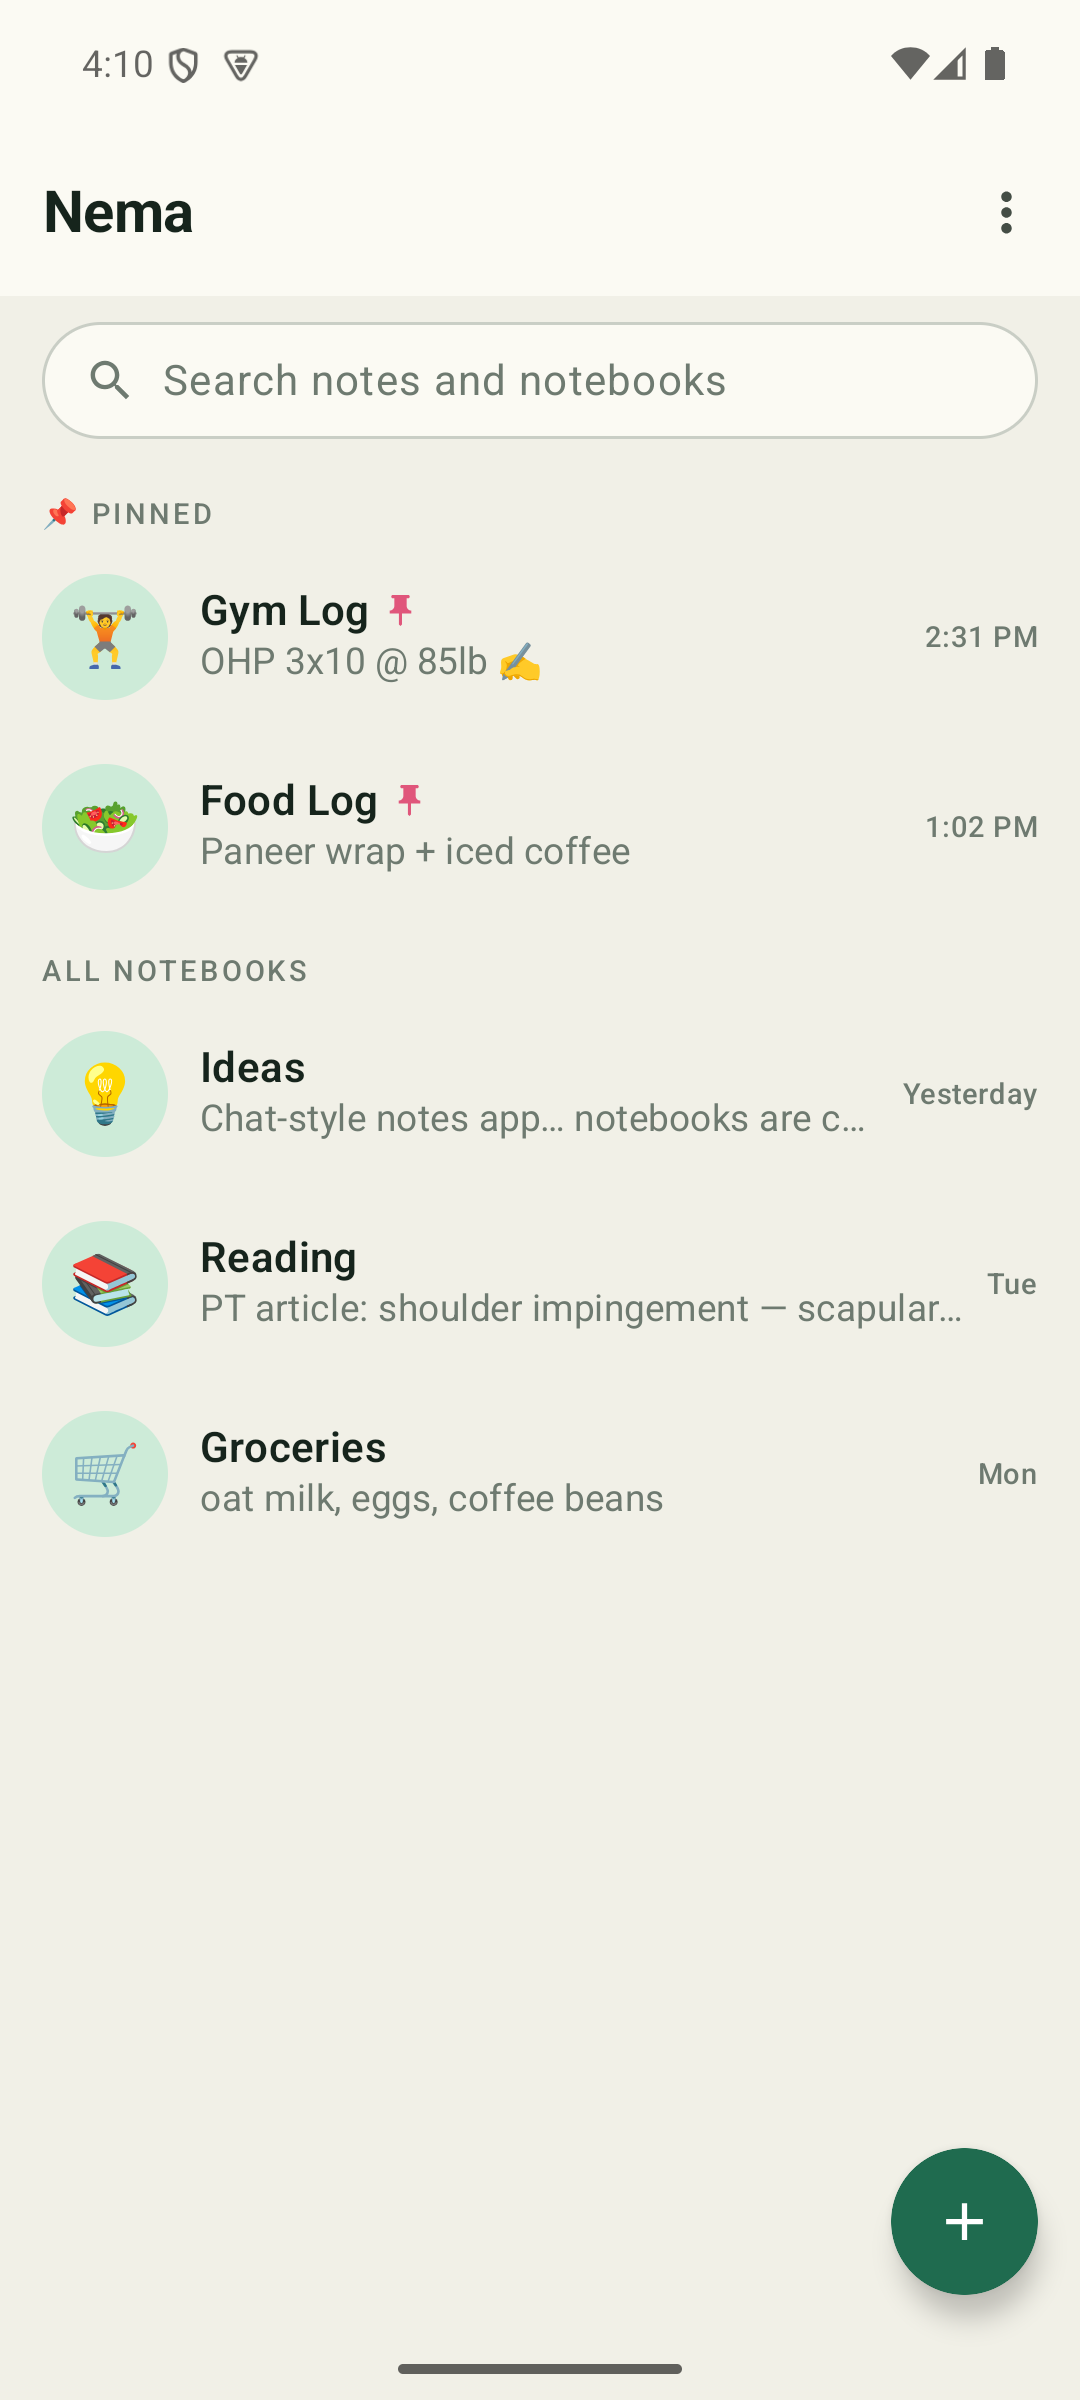
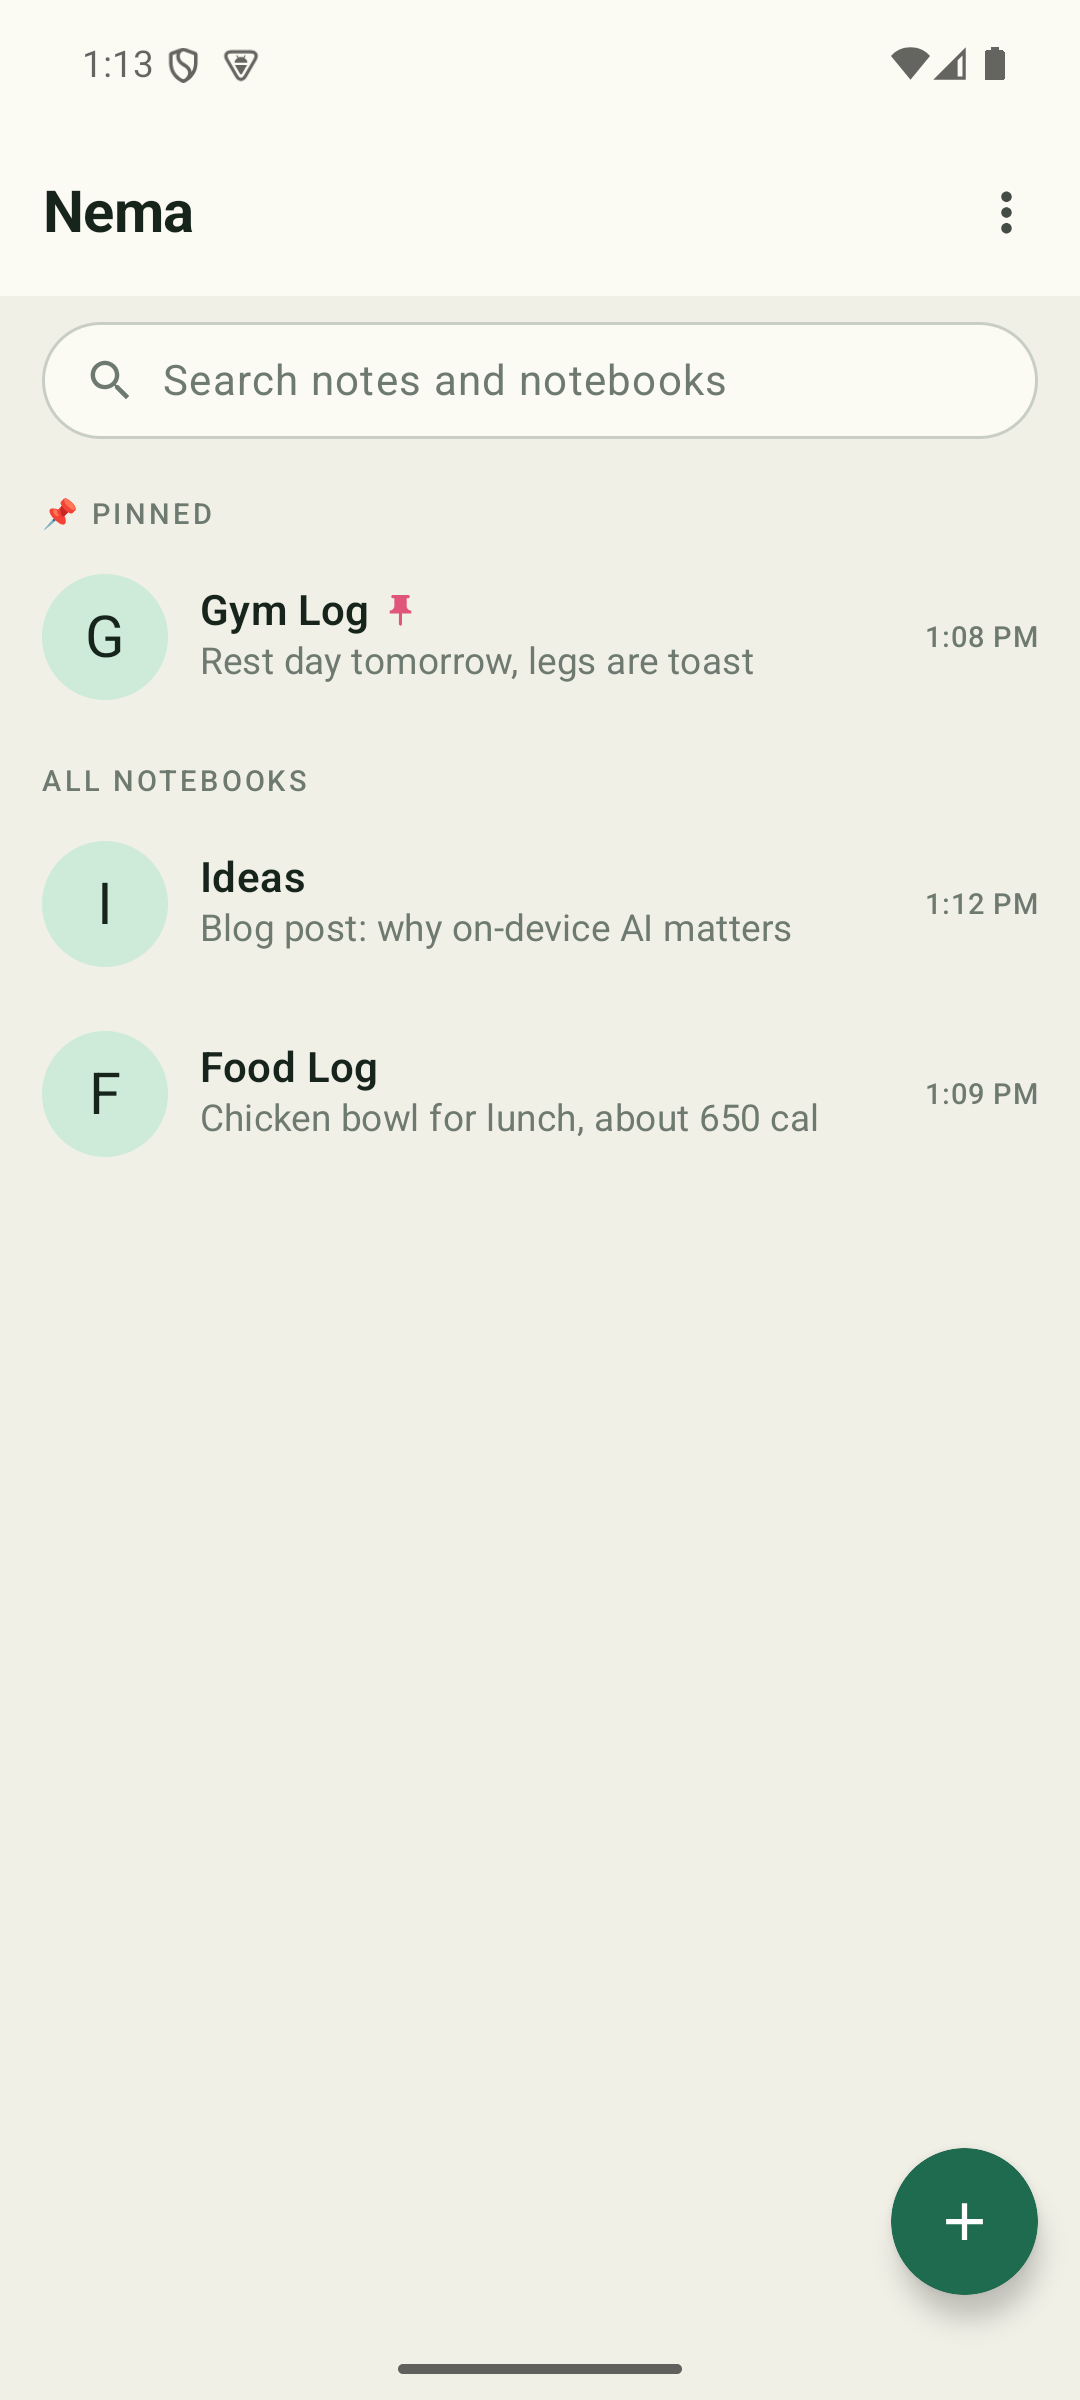
docs: v2.1.0 — optional hosted-model backend; refresh screenshots

diff --git a/README.md b/README.md
@@ -12,18 +12,21 @@
 you already use every day: **notebooks are chats, notes are messages, and
 capturing a thought is as fast as sending a text.**
 
-> **Latest release: [Nema v2.0.0](../../releases/latest)** · Android 8.0+ · on-device AI, private by design
+> **Latest release: [Nema v2.1.0](../../releases/latest)** · Android 8.0+ · on-device AI, private by design
 
 - 💬 **Texting-speed capture** — open, type, send. Your note is saved instantly.
 - 🗂 **Organize by topic** — a notebook per subject (Gym Log, Food Log, Ideas),
   with pinning so this week's priorities float to the top.
 - 🔍 **Find anything** — fast global and in-notebook search with date ranges.
 - ✨ **On-device AI** — redraft, ask, summarize, extract, and run Skills — all
-  running **locally on your phone**. No cloud, no account.
-- 🔒 **Private by design** — the AI runs on-device. The only network use is the
-  optional model download, which is logged in the Privacy ledger and can be
-  turned off entirely with **Sealed Mode**. Without a model, Nema is a fully
-  offline notebook.
+  running **locally on your phone** by default. No cloud, no account.
+- ☁ **Bring your own model (optional)** — power the same AI features with your
+  own OpenAI, Anthropic, or Foundry/Azure API key instead. Off by default; your
+  key stays on your device.
+- 🔒 **Private by design** — the on-device model needs no network at all. Any
+  network use (the optional model download, or a hosted model you opt into) is
+  logged in the Privacy ledger and can be turned off entirely with **Sealed
+  Mode**. Without a model, Nema is a fully offline notebook.
 
 > Nema is an Android app. The intelligence runs on your device.
 
@@ -33,9 +36,10 @@ capturing a thought is as fast as sending a text.**
 
 <table>
   <tr>
-    <td align="center"><img src="docs/screenshots/home.png" alt="Notebook list with pinned notebooks" width="240"><br><sub>Notebooks — pinned & all</sub></td>
-    <td align="center"><img src="docs/screenshots/notebook.png" alt="Chat-style notebook with notes" width="240"><br><sub>Capture like texting</sub></td>
-    <td align="center"><img src="docs/screenshots/search.png" alt="Search results with highlighted matches" width="240"><br><sub>Search everything</sub></td>
+    <td align="center"><img src="docs/screenshots/home.png" alt="Notebook list with pinned notebooks" width="220"><br><sub>Notebooks — pinned & all</sub></td>
+    <td align="center"><img src="docs/screenshots/notebook.png" alt="Chat-style notebook with notes" width="220"><br><sub>Capture like texting</sub></td>
+    <td align="center"><img src="docs/screenshots/search.png" alt="Search results with highlighted matches" width="220"><br><sub>Search everything</sub></td>
+    <td align="center"><img src="docs/screenshots/hosted.png" alt="Settings screen with the optional hosted-model section" width="220"><br><sub>Bring your own model <em>(new)</em></sub></td>
   </tr>
 </table>
 
@@ -44,7 +48,7 @@ capturing a thought is as fast as sending a text.**
 ## 📥 Download & install
 
 1. Go to the [**latest release**](../../releases/latest).
-2. Download `nema-v2.0.0-release.apk`.
+2. Download `nema-v2.1.0-release.apk`.
 3. (Recommended) Verify the download — see **Verifying your download** below.
 4. On your Android device, open the APK and allow installation from this source
    if prompted.
@@ -59,8 +63,8 @@ integrity:
 
 ```bash
 # Compare the printed hash against the contents of the .sha256 file
-sha256sum nema-v2.0.0-release.apk         # Linux / macOS
-Get-FileHash nema-v2.0.0-release.apk      # Windows PowerShell (SHA256 by default)
+sha256sum nema-v2.1.0-release.apk         # Linux / macOS
+Get-FileHash nema-v2.1.0-release.apk      # Windows PowerShell (SHA256 by default)
 ```
 
 The hashes must match exactly. If they don't, do not install the file.
@@ -81,36 +85,49 @@ The hashes must match exactly. If they don't, do not install the file.
   AI builds a live table with rollups, tap-to-source, editing, and CSV export.
 - **Skills** — reusable prompts you attach to notebooks and run on demand, on a
   schedule, or when you add a note. Permissions default to read-only.
-- **Privacy ledger & Sealed Mode** — the only network use (optional model
-  download) is logged; Sealed Mode blocks it entirely.
+- **Bring your own hosted model (optional)** — flip a switch in Settings to power
+  every AI feature with your own OpenAI, Anthropic, or Foundry/Azure API instead
+  of the on-device model. Off by default; on-device stays the default.
+- **Privacy ledger & Sealed Mode** — every network egress (the optional model
+  download, or a hosted model you opt into) is logged; Sealed Mode blocks it all.
 
 ---
 
-## 🆕 What's new in v2.0.0
+## 🆕 What's new in v2.1.0
 
-Nema's first **on-device AI** release. Notebooks get intelligent while staying
-private: AI redrafting in the composer, `/ask` and `/compact` grounded in your
-own notes, user-programmable **Extraction rules** that turn notes into structured
-tables, and **Skills** — reusable prompts you can attach to notebooks and trigger
-on demand, on a schedule, or on new notes. Everything runs on your device using a
-local model; the app remains a fully-functional offline notebook if you never
-download one. See the [`CHANGELOG.md`](CHANGELOG.md) for the full history.
+Nema now lets you **bring your own hosted model**. If you'd rather power the AI
+features with a cloud API than the on-device model, open **Settings → Hosted
+model**, flip the switch, and add your **OpenAI**, **Anthropic**, or
+**Foundry/Azure** endpoint, key, and model name. Once enabled, every AI feature —
+redraft, `/ask`, `/compact`, extraction, and Skills — routes through your hosted
+model. It's **off by default**, on-device remains the default, your key stays on
+your device, and every hosted call is recorded in the Privacy Receipt and
+blockable with Sealed Mode. See the [`CHANGELOG.md`](CHANGELOG.md) for the full
+history.
 
 ---
 
 ## 🔐 Privacy
 
-Nema's AI runs **on your device**. The one and only network use is the optional,
-on-demand **model download** — and it is:
+Nema's AI runs **on your device** by default, and that path makes **zero** network
+calls. Nema only touches the network in two cases, both under your control:
 
-- **Ledgered** — every download is recorded (host, bytes, purpose; never your
-  note content) in the in-app Privacy Receipt.
-- **Blockable** — turn on **Sealed Mode** to block all egress; the app keeps
-  working as an offline notebook.
-- **Optional** — with no model downloaded, Nema makes no network calls and is a
-  fully offline v1-style notebook.
+- **The optional model download** — an on-demand download to enable the on-device
+  AI features.
+- **A hosted model you opt into** — if you turn on a hosted model in Settings, your
+  requests go to the endpoint you configured. This is **off by default** and your
+  API key stays on your device.
 
-Your notes never leave your device.
+Both are:
+
+- **Ledgered** — every egress is recorded (host, bytes, purpose; never your note
+  content) in the in-app Privacy Receipt.
+- **Blockable** — turn on **Sealed Mode** to block all egress, including hosted
+  calls; the app keeps working as an offline notebook.
+- **Optional** — with no model downloaded and hosting off, Nema makes no network
+  calls and is a fully offline v1-style notebook.
+
+Your notes are never sent anywhere unless you explicitly enable a hosted model.
 
 ---
 

diff --git a/CHANGELOG.md b/CHANGELOG.md
@@ -22,6 +22,20 @@ This project follows [Semantic Versioning](https://semver.org/) (`MAJOR.MINOR.PA
 
 - Work in progress toward the next release.
 
+## Nema v2.1.0 — 2026-07-11
+
+Bring your own hosted model. On-device AI remains the default; this release adds
+an optional way to power the AI features with a cloud API instead.
+
+### Added
+- **Hosted model (optional)** — in **Settings → Hosted model**, turn on *Use a hosted model* to route every AI feature (redraft, /ask, /compact, extraction, and Skills) through a cloud API instead of the on-device model. Supports **OpenAI**, **Anthropic**, and **Foundry / Azure OpenAI**; configure the base URL, API key, and model name per provider.
+
+### Changed
+- On-device AI is still the default and needs no configuration. The hosted option is off until you enable it, and your API key stays on your device.
+
+### Security
+- Every hosted request is recorded in the in-app Privacy Receipt (host, byte count, and purpose — never your note content), and **Sealed Mode** blocks hosted calls just like it blocks the model download.
+
 ## Nema v2.0.0 — 2026-07-10
 
 The first on-device AI release. Notebooks get intelligent while your notes stay
